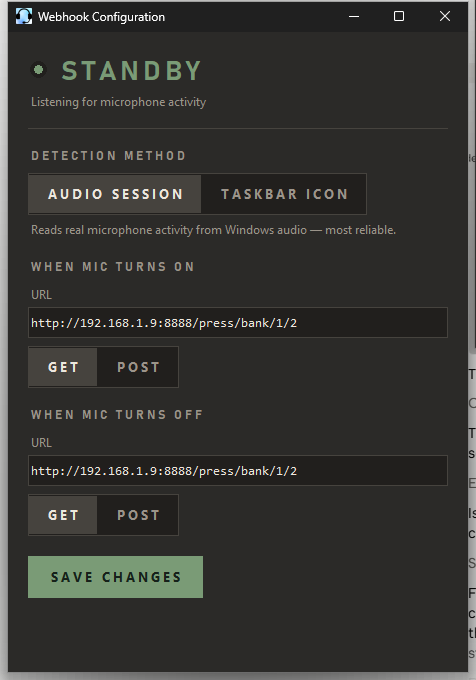
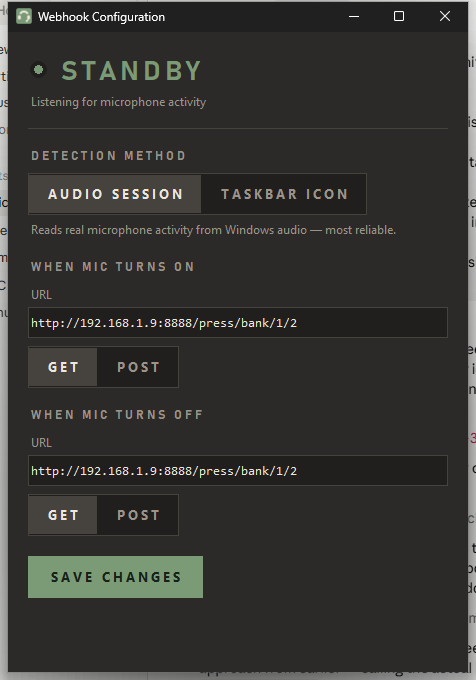
Redesign README to match the studio tally panel visual identity
- Add a custom hero banner (docs/hero-banner.png) built from the app's own
  palette and headset glyph, replacing the plain text heading.
- Rewrite the intro copy: a one-line thesis, an updated origin story, and a
  clearer explanation that the webhook can drive any automation (Bitfocus
  Companion, Home Assistant, or anything else that accepts a webhook), not
  just the author's specific setup.
- Add a "How it works" section using the real shipped STANDBY/ON AIR tray
  icon states side by side, top-aligned so caption wrapping can't knock
  them out of vertical sync.
- Merge the former Configuring it / Detection Method / Configuration
  sections into one, focused on the actual settings rather than file-
  creation timing mechanics; drop the "if pycaw isn't installed" caveat
  since it ships bundled in the exe and doesn't apply there.
- Add a License section (GPLv3 was previously unreferenced anywhere).
- Sync headset2.ico (window title bars + exe file icon) to the same
  high-contrast badge design already used for the tray icon — it had been
  left on an earlier muted-glyph version. Re-capture both window
  screenshots live from the running app so they show the corrected icon.

diff --git a/README.md b/README.md
@@ -1,38 +1,60 @@
-# Mic Monitor
-Simple executable file that sends a webhook when your mic is in use.
+<img src="docs/hero-banner.png" width="100%" alt="Mic Monitor — turns on a light when your mic goes live">
 
-I built this because I have a light connected to a smart outlet outside my home office, which I turn on when I'm in a call or online meeting so people know not to interrupt me. The problem was I kept forgetting to turn it on. I looked for an existing tool to automate this and came up empty, so I wrote my own.
+Trigger a "do not disturb" light for your home office automatically, no button press required.
 
-It's a Python script packaged into a standalone executable with PyInstaller. When it detects the microphone is active, it fires a webhook to turn on the smart outlet. In my setup, that webhook goes to Bitfocus Companion, which controls a TP-Link Kasa outlet.
+I have a light plugged into a smart outlet outside my office door, which I use to signal that I'm in a call or meeting. The problem: I kept forgetting to turn it on. I looked for an existing tool that could do this automatically and couldn't find one, so I built Mic Monitor and have since enhanced it with help from AI.
+
+The tool is a Python script packaged as a standalone executable (via PyInstaller). It watches for microphone activity and fires a webhook the moment your mic goes live. You can use this with a smart outlet to turn on a light automatically or trigger any automation you like via Bitfocus Companion or Home Assistant. In my setup, the webhook hits Bitfocus Companion, which in turn controls a TP-Link Kasa smart outlet — but since it's just a webhook, it can be pointed at any service that accepts a webhook.
 
 ## Download
 
-**[Download Mic_Monitor_v4.exe](https://github.com/WebHeadNC/Mic-Monitor/raw/main/Mic_Monitor_v4.exe)**
+[![Download Mic_Monitor_v4.exe](https://img.shields.io/badge/Download-Mic__Monitor__v4.exe-7A9B76?style=for-the-badge)](https://github.com/WebHeadNC/Mic-Monitor/raw/main/Mic_Monitor_v4.exe)
 
-The repository also includes the original Python source (`mic-monitor.py`) in case you want to make changes, but you don't need it to run the app — everything is contained in the single self-contained exe (the icon is embedded, no other files required).
+The repository also includes the original Python source (`mic-monitor.py`) in case you want to make changes, but you don't need it to run the app — everything is contained in a single exe file.
 
-The app runs in the taskbar 
+## How it works
 
-![image](https://github.com/user-attachments/assets/1d9a4771-d7fd-4645-98f0-606ac324abc7) ![image](https://github.com/user-attachments/assets/c6f5a9da-b043-4bed-b279-51903dfe4026)
+Mic Monitor sits quietly in your system tray and watches your microphone. The tray icon itself tells you the current state at a glance:
 
-It has a menu that allows you to configure the webhook and choose how the mic is detected.
+<table>
+<tr>
+<td align="center" valign="top" width="50%">
+<img src="docs/state-standby.png" width="72" alt="Standby state icon"><br>
+<b>STANDBY</b><br>
+<sub>Microphone isn't in use. Icon stays green.</sub>
+</td>
+<td align="center" valign="top" width="50%">
+<img src="docs/state-onair.png" width="72" alt="On air state icon"><br>
+<b>ON AIR</b><br>
+<sub>Your mic's live. Icon turns red and your webhook fires.</sub>
+</td>
+</tr>
+</table>
+
+Right-click the tray icon any time to open the Webhook Editor, view the log, or exit.
+
+## Configuring it
+
+The Webhook Editor is where you set this up:
 
 ![Webhook Configuration window](docs/webhook-config-v4.png)
 
-You can view the log if needed for troubleshooting.
+The status panel at the top isn't just decoration — it reads the same live signal the detection loop uses, so if something isn't triggering correctly, you can watch it update in real time instead of guessing.
 
-![Mic Monitor Log window](docs/log-window-v4.png)
+**Webhook URLs.** Set a separate URL and HTTP method (GET or POST) for when your mic turns on and when it turns off. These are what actually control your smart outlet, light, or whatever you've wired up.
 
-Or you can exit the program.
-
-## Mic Detection Method
-
-The app can detect microphone use in two ways, selectable from the **Webhook Editor** menu:
+**Detection Method.** Choose how Mic Monitor decides your mic is active:
 
 - **Audio Session (recommended)** — reads the actual capture state from Windows Core Audio (WASAPI) via `pycaw`. This checks whether any application is really recording, so it isn't affected by taskbar rendering or UI lag.
 - **Taskbar Icon** — the original method, which looks for the microphone icon in the taskbar using UI Automation. Kept as a fallback.
 
-If `pycaw` isn't installed, the app automatically falls back to the Taskbar Icon method.
+Click **Save Changes** and everything here — both webhook URLs and your chosen detection method — persists across restarts, so you only need to set it up once.
+
+## Troubleshooting with the log
+
+Every event — mic transitions, webhook sends, errors — gets a timestamped line, color-coded by what it means: red when the mic goes live, green when it goes quiet, amber for real failures, and everything routine dimmed out of the way. The log window auto-refreshes, so you can leave it open during a call and watch it react live.
+
+![Mic Monitor Log window](docs/log-window-v4.png)
 
 ## Running the executable
 
@@ -40,8 +62,6 @@ Download **`Mic_Monitor_v4.exe`**. The icon is embedded, so it's fully self-cont
 
 1. **Put the exe in its own folder** (for example `C:\Tools\MicMonitor\`). The app writes its log and settings files next to itself, so giving it a dedicated folder keeps those alongside the exe and out of a cluttered directory like Downloads. Avoid protected locations such as `C:\Program Files`, where Windows may block those writes.
 2. **Double-click `Mic_Monitor_v4.exe`** to launch it. It runs in the taskbar tray — right-click the tray icon to open the Webhook Editor, view the log, or exit.
-
-On first run the app creates `mic_monitor.log` automatically. `mic_monitor_config.json` is created only after you save settings in the Webhook Editor; until then it runs on built-in defaults.
 
 ## Start automatically with Windows
 
@@ -56,12 +76,6 @@ The app will now start automatically the next time you sign in. To stop it from 
 
 > Note: leave the exe in its dedicated folder and point the shortcut at it there — don't move the exe into the Startup folder itself, or its log/config files will be written into that folder too.
 
-## Configuration
-
-Settings (both webhook URLs/methods and the chosen detection method) are saved to `mic_monitor_config.json`, created next to the executable when you save them in the Webhook Editor. Your changes persist across restarts.
-
-> Note: the config and log files are written to the app's own folder, so run the exe from a user-writable location (not `C:\Program Files`) to avoid Windows blocking the writes.
-
 ## Running from source
 
 Install the dependencies and run the script:
@@ -72,3 +86,7 @@ python mic-monitor.py
 ```
 
 Dependencies: `pywinauto`, `pystray`, `Pillow`, `requests`, and `pycaw` (for the Audio Session detection method).
+
+## License
+
+[GPLv3](LICENSE)
